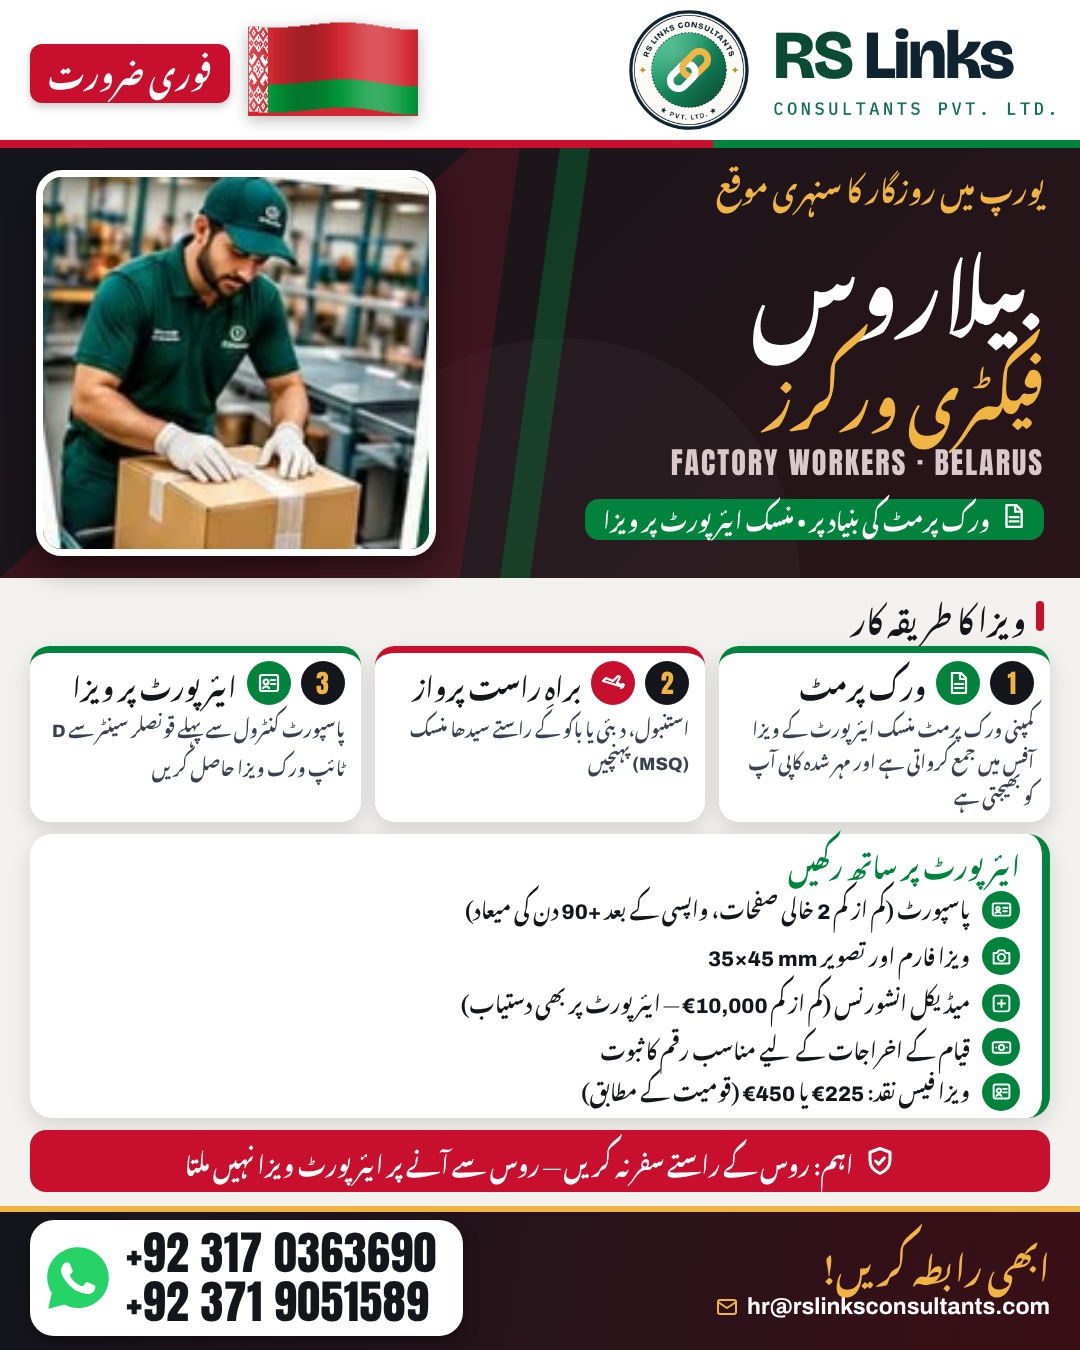
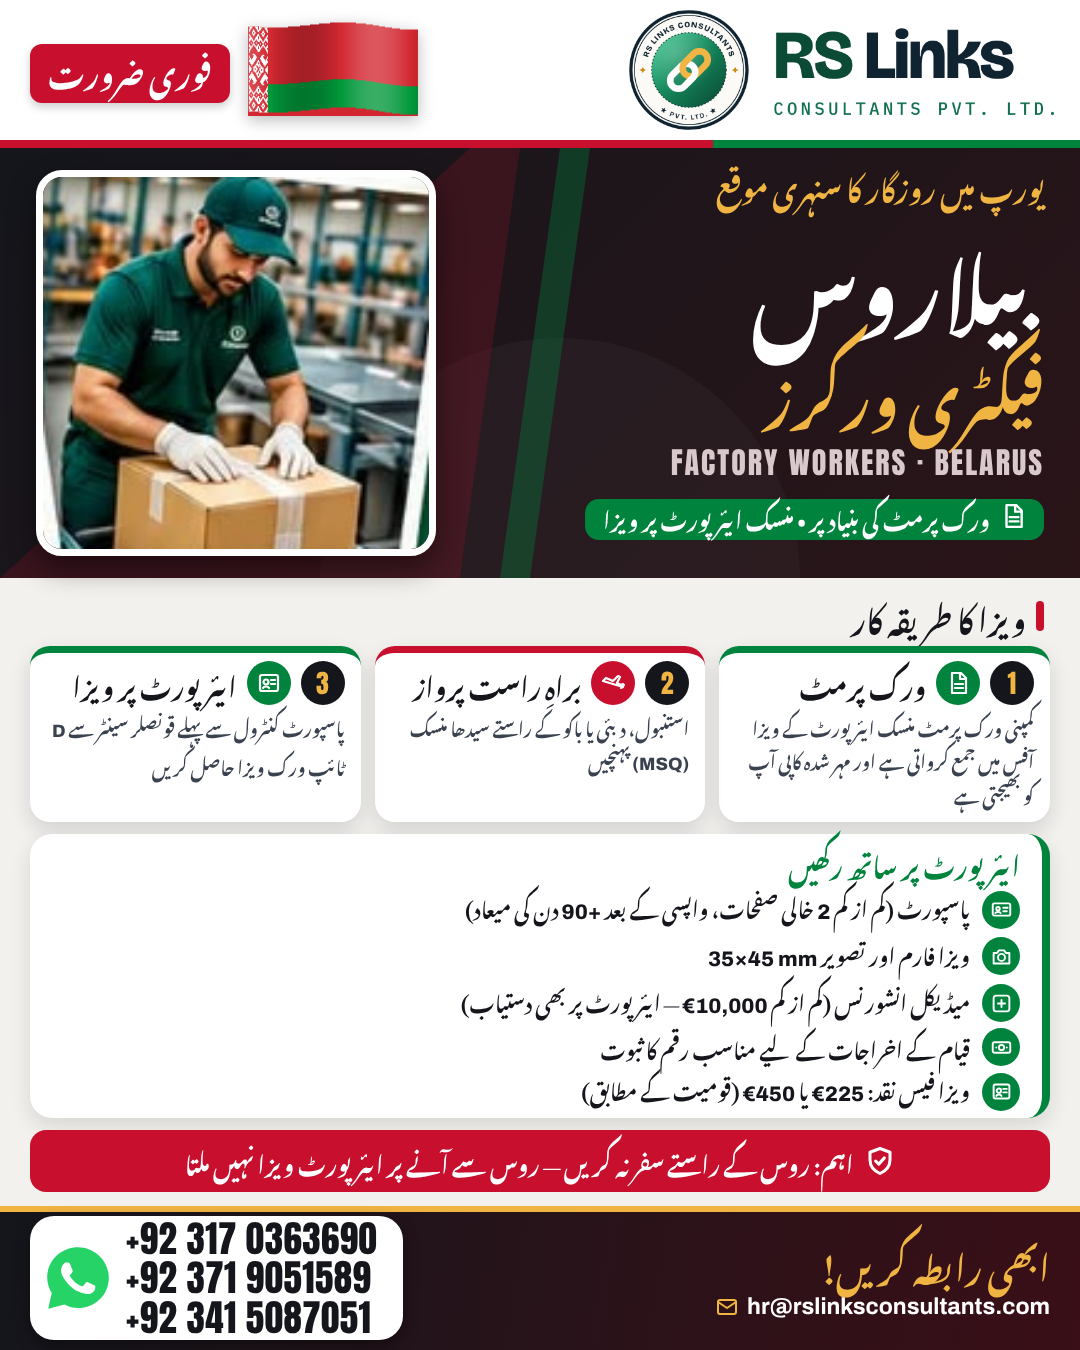
Belarus ad: add third number +92 341 5087051
Claude-Session: https://claude.ai/code/session_01YJ5ofgU8QCiWTsYR9pvXG4

Changed region(s): [[0.0917, 0.9022, 0.4278, 0.9956], [0.0306, 0.9644, 0.0611, 0.9956]]

diff --git a/src/belarus_factory.py b/src/belarus_factory.py
@@ -1,11 +1,10 @@
 """Belarus factory workers (2026-10-15). Source: user demand text (visa-on-arrival procedure at Minsk
 airport) + a sample special work permit (Заводской рабочий / factory worker, employer in Minsk).
 The permit image contains a third person's personal data and is NOT used in the ad. Urdu only."""
-from common import C, PHOTOS, WHATSAPP, flag, icon, logo_img, page, render, whatsapp_icon
+from common import C, PHOTOS, PHONES, flag, icon, logo_img, page, render, whatsapp_icon
 from style_corporate_grid import T
 
 RED, GREEN, INK, GOLD = "#C8102E", "#00843D", "#14161C", "#F0B443"
-PHONES = ["+92 317 0363690", WHATSAPP]
 EMAIL = "hr@rslinksconsultants.com"
 N = lambda v: f"<span class='num' style='font-family:Archivo;font-weight:800;letter-spacing:0'>{v}</span>"
 
@@ -39,7 +38,7 @@ def build():
         f"<div style='display:flex;align-items:center;gap:12px;margin-top:4px'>"
         f"<div style='width:38px;height:38px;border-radius:50%;background:{GREEN};display:flex;align-items:center;justify-content:center;flex:none'>{icon(ic, 21)}</div>"
         f"{f.txt(s, 0, 21, INK, 'font-weight:600', 1.75)}</div>" for ic, s in docs)
-    nums = "".join(f"<div class='num' style='display:block;font-size:46px;color:{INK};line-height:1.06'>{n}</div>" for n in PHONES)
+    nums = "".join(f"<div class='num' style='display:block;font-size:37px;color:{INK};line-height:1.06'>{n}</div>" for n in PHONES)
     body = f"""<div class='ur-on'>
 <div class='abs' style='top:0;left:0;width:1080px;height:140px;background:#fff'></div>
 <div class='abs' style='top:10px;right:26px;width:480px;height:120px'>{logo_img('logo-horizontal-light', 'width:480px;height:120px;object-position:right')}</div>
@@ -75,7 +74,7 @@ def build():
  {f.head('ابھی رابطہ کریں!', 0, 34, GOLD, 'line-height:1.5')}
  <div style='display:flex;align-items:center;justify-content:flex-end;gap:8px;margin-top:6px;direction:ltr'>{icon('mail', 24, GOLD, 2)}
   <span style='font-family:Archivo;font-size:23px;font-weight:700;color:#fff'>{EMAIL}</span></div></div>
-<div class='abs' style='top:1220px;left:30px;height:116px;background:#fff;border-radius:24px;display:flex;align-items:center;gap:14px;padding:0 26px 0 14px;box-shadow:0 6px 16px #0006;direction:ltr'>
+<div class='abs' style='top:1216px;left:30px;height:124px;background:#fff;border-radius:24px;display:flex;align-items:center;gap:14px;padding:0 26px 0 14px;box-shadow:0 6px 16px #0006;direction:ltr'>
  {whatsapp_icon(68)}<div>{nums}</div></div>
 </div>"""
     css = (".canvas{font-family:'Nastaliq',serif;background:#F3F1EE}.ur-on .t{font-family:'Nastaliq',serif}.mir svg{transform:scaleX(-1)}"
